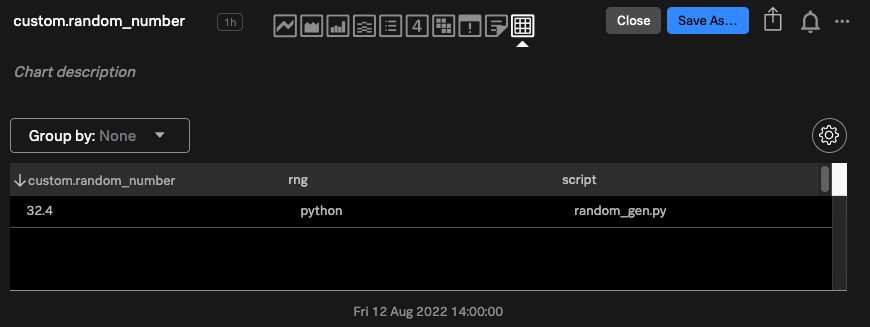
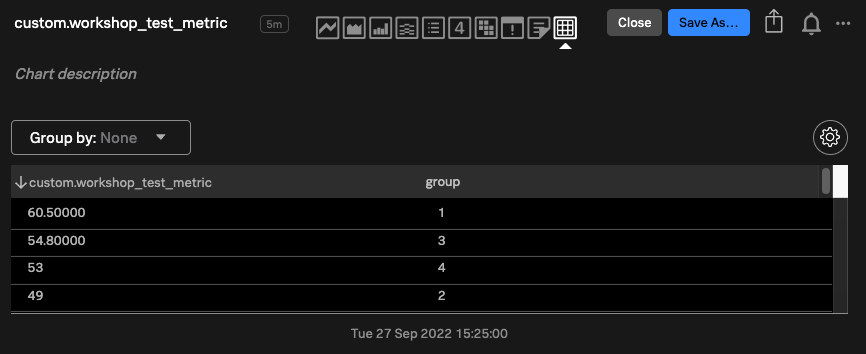
Deployed ec52c83 with MkDocs version: 1.3.1

diff --git a/custom_dash/index.html b/custom_dash/index.html
@@ -1045,14 +1045,10 @@
 <li>
 <p>Line/area/column chart</p>
 <p>These 3 charts are similar in nature and display MTS values over time. </p>
-<ul>
-<li>Chart options:<ul>
-<li>Area and column charts can be stacked.</li>
-<li>Color legend can be displayed for all 3 charts (useful when there are multiple MTS).</li>
-<li>For the Y-axis, the label, min/max, units, and precision can be configured.</li>
-</ul>
-</li>
-</ul>
+<p>Chart options:
+    - Area and column charts can be stacked.
+    - Color legend can be displayed for all 3 charts (useful when there are multiple MTS).
+    - For the Y-axis, the label, min/max, units, and precision can be configured.</p>
 <table>
 <thead>
 <tr>
@@ -1073,52 +1069,36 @@
 <li>
 <p>Histogram</p>
 <p>Histograms will display MTS in a single color. </p>
-<ul>
-<li>Chart options:<ul>
-<li>For the Y-axis, the label, min/max, units, and precision can be configured.</li>
-</ul>
-</li>
-</ul>
+<p>Chart options:
+    - For the Y-axis, the label, min/max, units, and precision can be configured.</p>
 <p><img alt="Histogram chart" src="../images/custom_histogram.png" /></p>
 </li>
 <li>
 <p>List</p>
 <p>Lists are useful for looking at the latest values of multiple MTS. </p>
-<ul>
-<li>Chart options:<ul>
-<li>Color by value to indicate severity. </li>
-<li>Refresh rate, sorting, and precision</li>
-<li>Dimensions listed next to each value can be shown or hidden as needed (e.g. host name, environment, service name, etc.)</li>
-<li>A secondary visualization can be enabled to display a sparkline with historical values, or a radial or linear scale for severity.</li>
-</ul>
-</li>
-</ul>
+<p>Chart options:
+    - Color by value to indicate severity. 
+    - Refresh rate, sorting, and precision
+    - Dimensions listed next to each value can be shown or hidden as needed (e.g. host name, environment, service name, etc.)
+    - A secondary visualization can be enabled to display a sparkline with historical values, or a radial or linear scale for severity.</p>
 <p><img alt="List view" src="../images/custom_listview.png" /></p>
 </li>
 <li>
 <p>Single value</p>
 <p>The single value display behaves similarly to the list view. </p>
-<ul>
-<li>Chart options:<ul>
-<li>Color by scale</li>
-<li>Precision, refresh rate</li>
-<li>Secondary visualizations (sparkline, radial/linear scale)</li>
-</ul>
-</li>
-</ul>
+<p>Chart options:
+    - Color by scale
+    - Precision, refresh rate
+    - Secondary visualizations (sparkline, radial/linear scale)</p>
 <p><img alt="Single value" src="../images/custom_singlevalue.png" /></p>
 </li>
 <li>
 <p>Heatmap</p>
 <p>Heatmaps can be used to quickly identify severity across a number of MTS representing individual instances, services, hosts, functions, etc.</p>
-<ul>
-<li>Chart options:<ul>
-<li>Refresh rate</li>
-<li>Sorting, grouping by dimensions</li>
-<li>Color by fixed or automatic scale</li>
-</ul>
-</li>
-</ul>
+<p>Chart options:
+    - Refresh rate
+    - Sorting, grouping by dimensions
+    - Color by fixed or automatic scale</p>
 <table>
 <thead>
 <tr>
@@ -1146,10 +1126,92 @@
 </li>
 </ol>
 <h3 id="filters">Filters<a class="headerlink" href="#filters" title="Permanent link">&para;</a></h3>
+<p>In the previous section <a href="https://smathur-splunk.github.io/workshops/custom_metr/#setting-custom-properties-and-tags">Ingesting Custom Metrics</a>, you set some custom properties and tags after ingesting custom metric data. Now that we're building a chart, we can use those, in addition to the properties defined at ingest, to filter on our chart.</p>
+<ol>
+<li>
+<p>In the chart builder, next to your custom metric name, click "Add Filter" and search for a custom property name (not value) or tag that you've created. If filtering by custom property, also specify the value of the property that you want to filter on (* supported).</p>
+<p><img alt="Filtering on custom properties and tags" src="../images/custom_filterpropertytag.png" /></p>
+</li>
+<li>
+<p>You may also want to filter on a dimension such as <code>group</code>.</p>
+</li>
+</ol>
 <h3 id="analytic-functions">Analytic Functions<a class="headerlink" href="#analytic-functions" title="Permanent link">&para;</a></h3>
+<p>Now that we've set some filters for our chart, there are various analytic functions we can apply, in order to make sense of multiple MTs that may be coming in. For this section to be relevant, you may want to tweak your filters such that you see multiple MTS.</p>
+<ol>
+<li>
+<p>Under the F(x) column, click "Add Analytics". Explore the various analytic functions that are available.</p>
+<p><img alt="Analytic functions in Splunk Observability" src="../images/custom_analyticfunctions.png" /></p>
+</li>
+<li>
+<p>Select "Mean" as your analytic function. You'll be asked to pick between "Aggregation" and "Transformation". Many of the analytic functions allow you to choose between these two options, which will affect how metric data is presented:</p>
+<ul>
+<li>
+<p>Aggregation</p>
+<ul>
+<li>This will perform a typical mean/min/max/etc. calculation, where for each point in time, the mean/min/max/etc. across all MTS is calculated and displayed.</li>
+</ul>
+</li>
+<li>
+<p>Transformation</p>
+<ul>
+<li>When "Transformation" is selected, a time window will need to be specified. </li>
+<li>
+<p>For this time window, you can choose between a <strong>moving window</strong> or a <strong>calendar window</strong>.</p>
+<ul>
+<li>
+<p>If a <strong>calendar window</strong> is specified, the chart will perform the selected function (mean, min, max, etc.) for each cycle, and use that as datapoints for the chart.</p>
+<ul>
+<li>For example, if "Mean:Transformation" is selected with a monthly cycle length calendar window, the chart will display 1 point for the mean value of each month.</li>
+</ul>
+<p><img alt="Calendar window transformation" src="../images/custom_calendarwindow.png" /></p>
+</li>
+<li>
+<p>If a <strong>moving window</strong> is specified, the chart will show what the moving function (mean, min, max, etc.) value is, looking back the specified amount of time.</p>
+<ul>
+<li>For example, if "Mean:Transformation" is selected with a moving window of 1 hour, then for every datapoint coming in, the mean over the last 1 hour will be calculated and displayed instead of the raw datapoint itself. </li>
+</ul>
+<p><img alt="Moving window transformation" src="../images/custom_movingwindow.png" /></p>
+</li>
+</ul>
+</li>
+</ul>
+</li>
+</ul>
+<p>For more details on aggregation vs transformation, and analytic functions in general, see <a href="https://docs.splunk.com/Observability/data-visualization/charts/chart-analytics-reference.html">Functions reference for Splunk Observability Cloud</a>.</p>
+</li>
+<li>
+<p>Select "Mean:Aggregation", and group the resulting data by a dimension or custom property if you wish.</p>
+</li>
+</ol>
 <h3 id="rollups">Rollups<a class="headerlink" href="#rollups" title="Permanent link">&para;</a></h3>
+<p>Rollups determine how data is presented when datapoints are coming in at a higher resolution than what the chart shows. For example, if 2 datapoints come in every 10 seconds, and the resolution of the chart is set to 10 seconds, the 2 datapoints will need to be combined <em>somehow</em> into 1 datapoint to match the chart's resolution.</p>
+<p>How those datapoints are combined can depend on the type of metric (guage, counter, cumulative counter). Refer to the table <a href="https://smathur-splunk.github.io/workshops/custom_metr_expl/#whats-the-difference-between-a-gauge-and-a-counter">here</a> (see the "Default function" column) for a quick look at what rollups align to what type of metric by default.</p>
+<p>This rollup is usually automatically determined, but you may want to manually specify which rollup to use for your chart.</p>
+<ol>
+<li>
+<p>Under Plot Editor, on the far right side of your plot, click the gear icon to configure the plot.</p>
+</li>
+<li>
+<p>Under Advanced Options, you'll see that the Rollup dropdown was set to <code>Auto (Average)</code>, assuming you sent in a gauge metric (since that's the default function for gauges). Select the Rollup dropdown and set it to <code>Sum</code>. </p>
+<p><img alt="Rollup settings" src="../images/custom_rollup.png" /></p>
+</li>
+<li>
+<p>You should see that the chart values are higher now, since data is coming in at 5s, the chart has a resolution of 10s, and thus it's combining 2 datapoints into 1 by summing them.</p>
+</li>
+<li>
+<p>Note that under the plot configuration settings, you can also specify:</p>
+<ul>
+<li>The extrapolation policy that should be used to fill in any gaps (null, zero, or latest value)</li>
+<li>Max extrpolations: how many times the above extrapolation should be done, before it no longer applies</li>
+<li>Under Visualization Options, units can be configured so that time or bits/bytes can autoscale when displayed (e.g. display <code>10s</code> instead of <code>10000ms</code>, but at the same time display <code>900ms</code> instead of <code>0.9s</code>). Custom units can also be specified.</li>
+</ul>
+</li>
+</ol>
 <h3 id="signalflow">SignalFlow<a class="headerlink" href="#signalflow" title="Permanent link">&para;</a></h3>
+<p>If you click "View SignalFlow" on the top-right corner of the Plot Editor, you'll be able to see the SignalFlow query beneath the plot that you've created just now in the UI. There are many functions that you can leverage with SignalFlow, see the full list <a href="https://dev.splunk.com/observability/docs/signalflow/function_method_list">here</a>.</p>
 <h2 id="customizing-dashboards">Customizing Dashboards<a class="headerlink" href="#customizing-dashboards" title="Permanent link">&para;</a></h2>
+<p>You can quickly customize your dashboards by moving panels around, resizing them, and leveraging the copy-paste functionality to clone and edit charts. This section will discuss some of the more advanced configuration you can do with dashboards.</p>
 <h3 id="dashboard-variables">Dashboard Variables<a class="headerlink" href="#dashboard-variables" title="Permanent link">&para;</a></h3>
 <p>To allow for easy filtering, dropdowns for individual dimensions can be added to the top of a dashboard. </p>
 <p><img alt="Dashboard variables configuration" src="../images/custom_dashvars.png" /></p>
@@ -1186,7 +1248,7 @@
   <small>
     
       Last update:
-      <span class="git-revision-date-localized-plugin git-revision-date-localized-plugin-date">September 27, 2022</span>
+      <span class="git-revision-date-localized-plugin git-revision-date-localized-plugin-date">September 28, 2022</span>
       
     
   </small>

diff --git a/custom_metr/index.html b/custom_metr/index.html
@@ -736,6 +736,13 @@
 </li>
       
         <li class="md-nav__item">
+  <a href="#setting-custom-properties-and-tags" class="md-nav__link">
+    Setting Custom Properties and Tags
+  </a>
+  
+</li>
+      
+        <li class="md-nav__item">
   <a href="#viewing-custom-metrics-usage" class="md-nav__link">
     Viewing Custom Metrics Usage
   </a>
@@ -998,7 +1005,7 @@
 <p>Next, modify the script to create a POST request, which will send the random numbers generated as values of a metric. <strong>Inside</strong> the <code>while</code> loop from above, add the code below to your Python script. (Make sure this code is indented <strong>one</strong> level, just as it's pasted here.) </p>
 <p><em>Tip: you may want to move <code>time.sleep(5)</code> to the bottom of the <code>while</code> loop, after the <code>print</code> statement.</em></p>
 <div class="highlight"><pre><span></span><code>    <span class="n">metrics_list</span> <span class="o">=</span> <span class="p">[]</span>
-    <span class="n">metrics_dimensions</span> <span class="o">=</span> <span class="p">{</span><span class="s1">&#39;DIMENSION_1&#39;</span><span class="p">:</span><span class="s1">&#39;VALUE_1&#39;</span><span class="p">,</span> <span class="s1">&#39;DIMENSION_2&#39;</span><span class="p">:</span><span class="s1">&#39;VALUE_2&#39;</span><span class="p">}</span>
+    <span class="n">metrics_dimensions</span> <span class="o">=</span> <span class="p">{</span><span class="s1">&#39;DIMENSION_1&#39;</span><span class="p">:</span><span class="s1">&#39;VALUE_1&#39;</span><span class="p">,</span> <span class="s1">&#39;group&#39;</span><span class="p">:</span><span class="nb">str</span><span class="p">(</span><span class="n">random_number</span><span class="o">%</span><span class="mi">4</span><span class="o">+</span><span class="mi">1</span><span class="p">)}</span>
     <span class="n">metrics_list</span><span class="o">.</span><span class="n">append</span><span class="p">({</span><span class="s1">&#39;metric&#39;</span><span class="p">:</span><span class="s1">&#39;METRIC_NAME&#39;</span><span class="p">,</span> <span class="s1">&#39;value&#39;</span><span class="p">:</span><span class="n">random_number</span><span class="p">,</span> <span class="s1">&#39;timestamp&#39;</span><span class="p">:</span><span class="nb">int</span><span class="p">(</span><span class="n">time</span><span class="o">.</span><span class="n">time</span><span class="p">()</span><span class="o">*</span><span class="mi">1000</span><span class="p">),</span> <span class="s1">&#39;dimensions&#39;</span><span class="p">:</span><span class="n">metrics_dimensions</span><span class="p">})</span>
 
     <span class="n">metrics_data</span> <span class="o">=</span> <span class="p">{</span><span class="s1">&#39;gauge&#39;</span><span class="p">:</span><span class="n">metrics_list</span><span class="p">}</span>
@@ -1011,7 +1018,7 @@
 </code></pre></div>
 </li>
 <li>
-<p>Set <code>metrics_dimensions</code> equal to a dict of key-value pairs that you'd like to use as dimensions. As an example, you might set it equal to <code>{'rng':'python', 'script':'random_gen.py'}</code></p>
+<p>Set <code>metrics_dimensions</code> equal to a dict of key-value pairs that you'd like to use as dimensions. As an example, you might set it equal to <code>{'rng':'python', 'group':str(random_number%4+1)}</code> (This will create 4 MTS because there will be 4 unique values of the <code>group</code> dimension.)</p>
 </li>
 <li>
 <p>Replace <code>METRIC_NAME</code> with the desired metric name (you may want to prefix this with <code>custom.</code> for easy searching). </p>
@@ -1046,6 +1053,24 @@
 <p>Finally, run the Python script, and you should see an output <code>&lt;Response [200]&gt; OK</code>. And that's it! You've got a custom metric automatically being generated by this script.</p>
 </li>
 </ol>
+<h2 id="setting-custom-properties-and-tags">Setting Custom Properties and Tags<a class="headerlink" href="#setting-custom-properties-and-tags" title="Permanent link">&para;</a></h2>
+<p>For easier filtering and organizing of metric data, you can set custom properties and tags for your metrics <strong>after</strong> ingest (see <a href="https://smathur-splunk.github.io/workshops/custom_metr_expl/#metric-dimensions-custom-properties-and-tags">Metric Dimensions, Custom Properties, and Tags</a>).</p>
+<ol>
+<li>
+<p>From the left sidebar, navigate to Settings &gt; Metric Metadata (listed under "Data Configuration"). Search for a dimension, e.g. <code>group</code>, pertaining to your custom metric. From the results in the dropdown, select "group - Property".</p>
+<p><img alt="Metric Metadata settings" src="../images/custom_metricmetadata.png" /></p>
+</li>
+<li>
+<p>From the "group" metadata page, select a value (e.g. 1, 2, 3, or 4) under Values. On the resulting page, you can set custom properties and tags, which can be used later on for easier filtering. Under Properties, click "Add new property", specify a property name (e.g. <code>group_category</code>), and specify a property value (e.g. <code>A</code> or <code>B</code>).</p>
+</li>
+<li>
+<p>Under Tags, click "Add new tag", and enter a tag name such as <code>odd_number</code> or <code>even_number</code>.</p>
+</li>
+<li>
+<p>Repeat steps 2 and 3 for all the values of "group" (groups 1, 2, 3, and 4). You can now use these custom properties and tags to filter on data when creating charts and dashboards.</p>
+<p><img alt="Property metadata settings" src="../images/custom_propertymetadata.png" /></p>
+</li>
+</ol>
 <h2 id="viewing-custom-metrics-usage">Viewing Custom Metrics Usage<a class="headerlink" href="#viewing-custom-metrics-usage" title="Permanent link">&para;</a></h2>
 <p>Before we take a look at our custom metrics in Splunk Observability, let's see how we can manage custom metrics usage, against our org license. There are a couple ways to do this. <em>Required: Admin-level access to your org in Splunk Observability.</em></p>
 <h3 id="usage-by-token">Usage by Token<a class="headerlink" href="#usage-by-token" title="Permanent link">&para;</a></h3>
@@ -1076,7 +1101,7 @@
   <small>
     
       Last update:
-      <span class="git-revision-date-localized-plugin git-revision-date-localized-plugin-date">August 31, 2022</span>
+      <span class="git-revision-date-localized-plugin git-revision-date-localized-plugin-date">September 28, 2022</span>
       
     
   </small>
